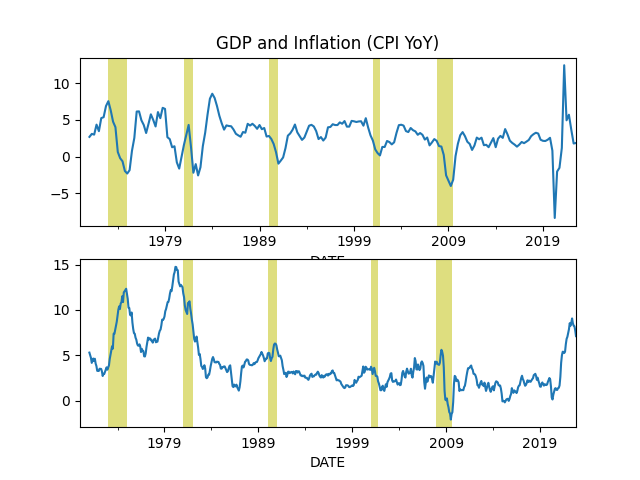
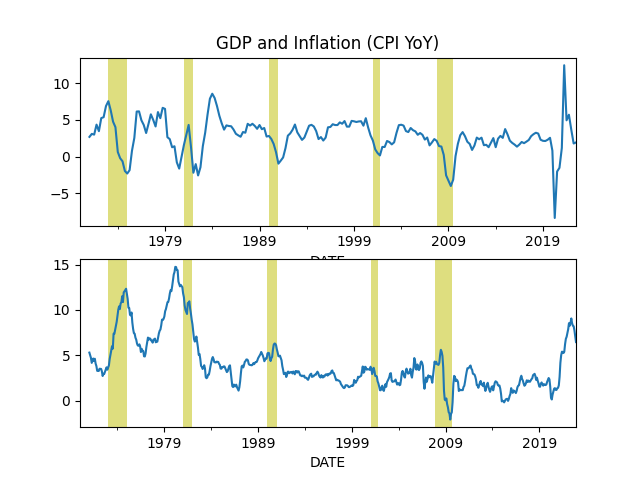
--

diff --git a/en/README.md b/en/README.md
@@ -39,8 +39,8 @@ before the Chinese Spring Festival in Muyang City, Jiangsu Province'"
 
 Verification for the "new social media" will be easy - governments run
 their own MD servers, whoever they give usernames to are automatically
-verified. For celebrities, or other notable characters for-private
-servers can offer a similar service. 
+verified. For celebrities, or other notable characters for-profit servers
+can offer a similar service.
 
 ---
 

diff --git a/en/2019/05/stats.md b/en/2019/05/stats.md
@@ -72,15 +72,15 @@ DATE
 2021-10-01   5.717100
 2022-01-01   3.683679
 2022-04-01   1.796042
-2022-07-01   1.864584
+2022-07-01   1.942138
                  inf
 DATE                
-2022-06-01  9.059758
 2022-07-01  8.524815
 2022-08-01  8.262693
 2022-09-01  8.201670
 2022-10-01  7.745427
 2022-11-01  7.110323
+2022-12-01  6.454401
 ```
 
 <a name='taylor'/>
